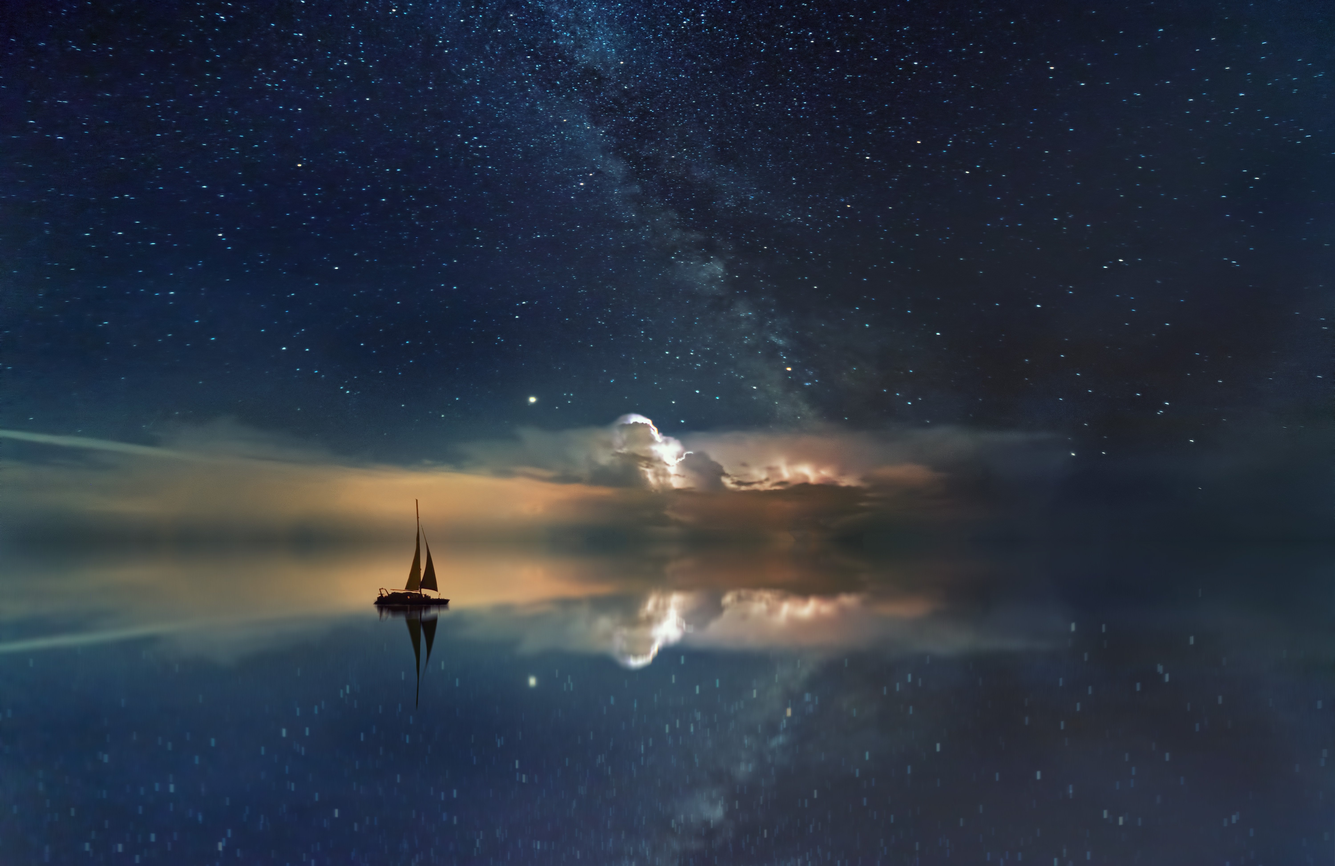
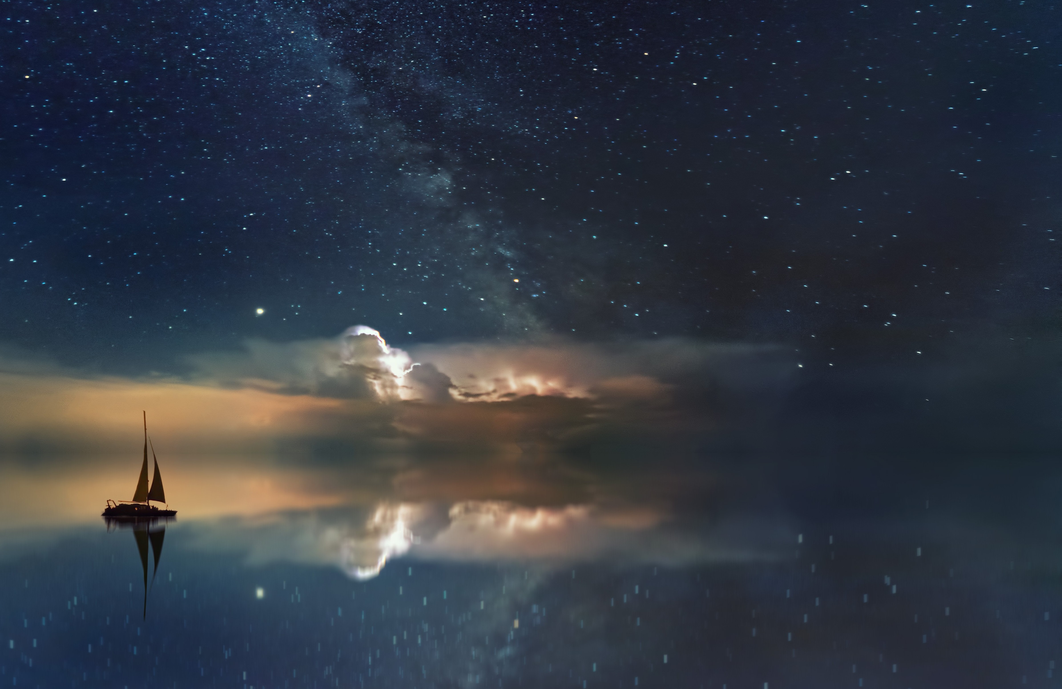
minor changes in background image

diff --git a/css/style.css b/css/style.css
@@ -5,7 +5,8 @@ html {
     background-image: url(../img/background.jpg);
     background-repeat: no-repeat;
     background-size: cover;
-    background-position: 45% 50%;
+    background-attachment: fixed;
+    background-position: center;
 }
 
 *, ::after, ::before {
